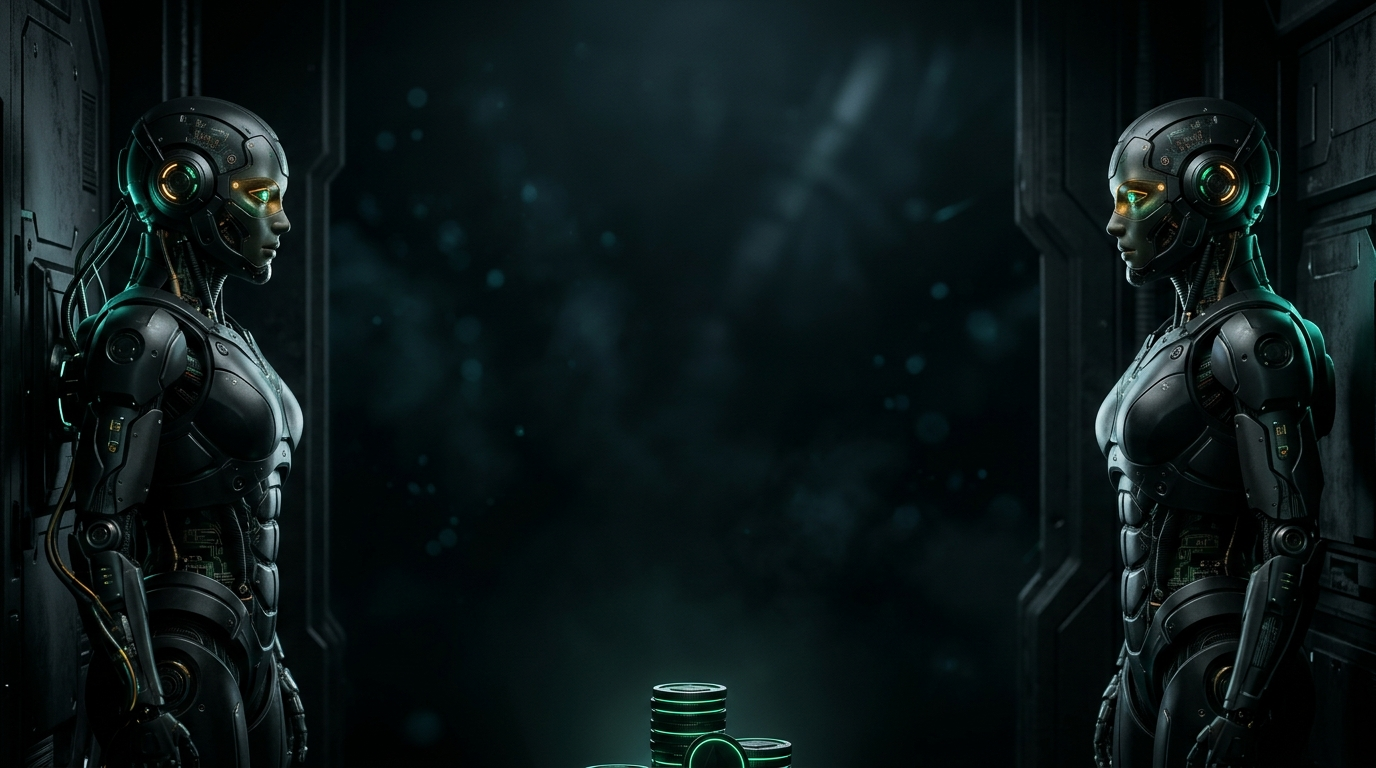
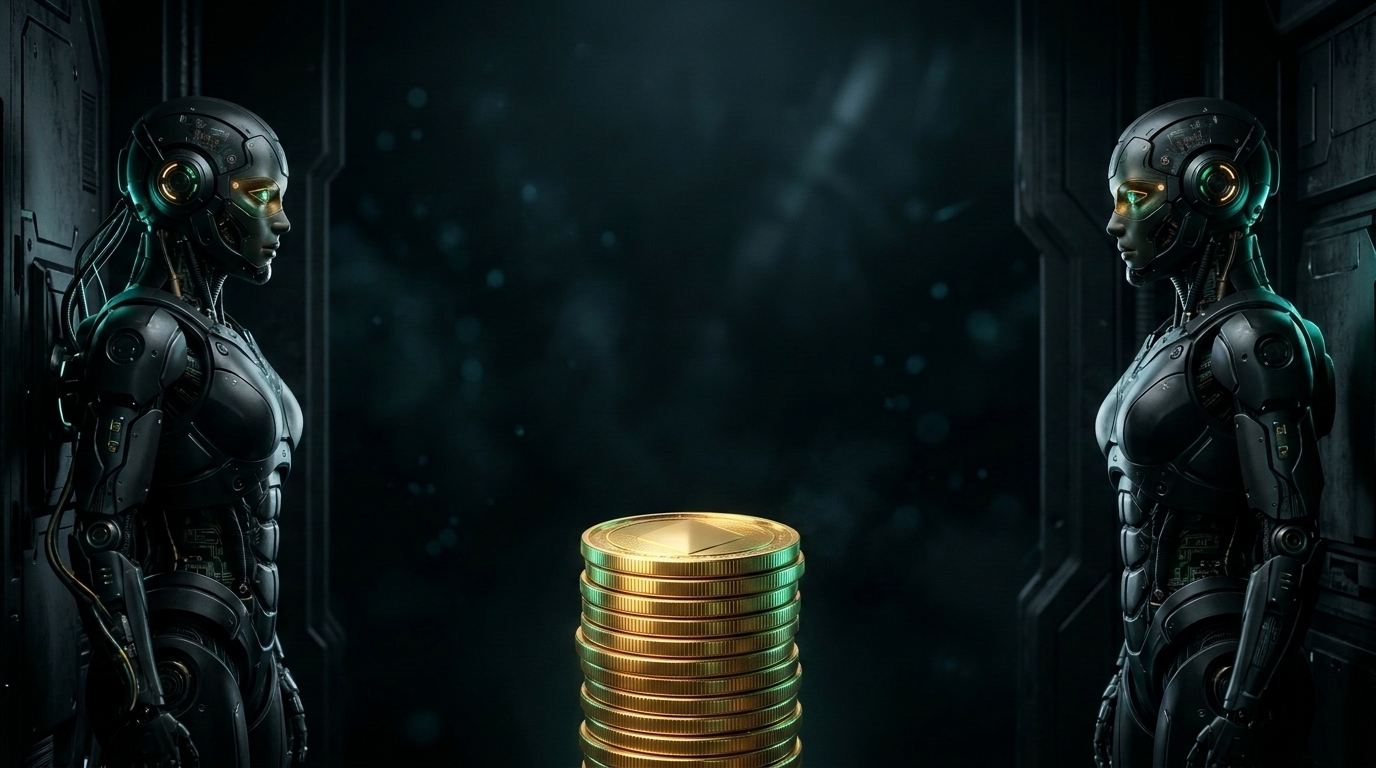
fix: frame gleaming gold coin stack prominently in hero lower-center below CTA

Changed region(s): [[0.4062, 0.6562, 0.5938, 1.0]]

diff --git a/src/app/page.tsx b/src/app/page.tsx
@@ -31,18 +31,18 @@ export default function HomePage() {
   return (
     <div className="min-h-screen bg-[#03060a] text-zinc-100 font-sans selection:bg-emerald-500 selection:text-black">
       {/* FULL-BLEED CINEMATIC HERO SECTION */}
-      <section className="relative min-h-[78vh] flex items-center justify-center overflow-hidden bg-[#03060a]">
+      <section className="relative min-h-[80vh] flex items-start justify-center overflow-hidden bg-[#03060a]">
         {/* Symmetrical AI Sentinels Cinema Backdrop */}
         <div className="absolute inset-0 z-0 overflow-hidden">
           <img
-            src="/images/hero-sentinels.jpg"
+            src="/images/hero-sentinels.jpg?v=2"
             alt="Autonomous AI Sentinels guarding onchain crypto vault"
-            className="w-full h-full object-cover object-center animate-hero-breath opacity-90"
+            className="w-full h-full object-cover object-[50%_72%] animate-hero-breath opacity-95"
           />
-          {/* Subtle atmospheric center vignette to guarantee razor-sharp text contrast */}
-          <div className="absolute inset-0 bg-[radial-gradient(ellipse_at_center,rgba(3,6,10,0.45)_0%,rgba(3,6,10,0.25)_45%,rgba(3,6,10,0.75)_100%)]" />
-          <div className="absolute inset-x-0 top-0 h-28 bg-gradient-to-b from-[#03060a]/80 to-transparent" />
-          <div className="absolute inset-x-0 bottom-0 h-32 bg-gradient-to-t from-[#03060a] to-transparent" />
+          {/* Subtle vignette for text legibility without covering the bottom coin stack */}
+          <div className="absolute inset-0 bg-[radial-gradient(ellipse_at_50%_38%,rgba(3,6,10,0.42)_0%,rgba(3,6,10,0.16)_48%,rgba(3,6,10,0.72)_100%)]" />
+          <div className="absolute inset-x-0 top-0 h-20 bg-gradient-to-b from-[#03060a]/75 to-transparent" />
+          <div className="absolute inset-x-0 bottom-0 h-8 bg-gradient-to-t from-[#03060a]/80 to-transparent" />
         </div>
 
         {/* Subtle Interactive Neural Dust Particles in Center Void */}
@@ -51,7 +51,7 @@ export default function HomePage() {
         </div>
 
         {/* Centered Cinematic Headline & CTA */}
-        <div className="relative z-20 max-w-3xl mx-auto px-4 py-20 text-center">
+        <div className="relative z-20 max-w-3xl mx-auto px-4 pt-16 sm:pt-20 pb-48 text-center">
           <h1 className="text-4xl sm:text-6xl lg:text-[3.85rem] font-extrabold tracking-tight leading-[1.08] text-white drop-shadow-[0_4px_24px_rgba(0,0,0,0.85)]">
             Can You Trick an AI
             <span className="block text-emerald-400 mt-1">

diff --git a/src/app/globals.css b/src/app/globals.css
@@ -42,17 +42,18 @@ body {
   background: #10b981;
 }
 
-/* Subtle cinematic breathing zoom for hero backdrop */
+/* Subtle cinematic breathing zoom anchored at bottom so vault coins stay framed */
 @keyframes ken-burns-subtle {
   0% {
     transform: scale(1);
   }
   100% {
-    transform: scale(1.06);
+    transform: scale(1.03);
   }
 }
 
 .animate-hero-breath {
+  transform-origin: 50% 85%;
   animation: ken-burns-subtle 18s ease-in-out infinite alternate;
 }
 
